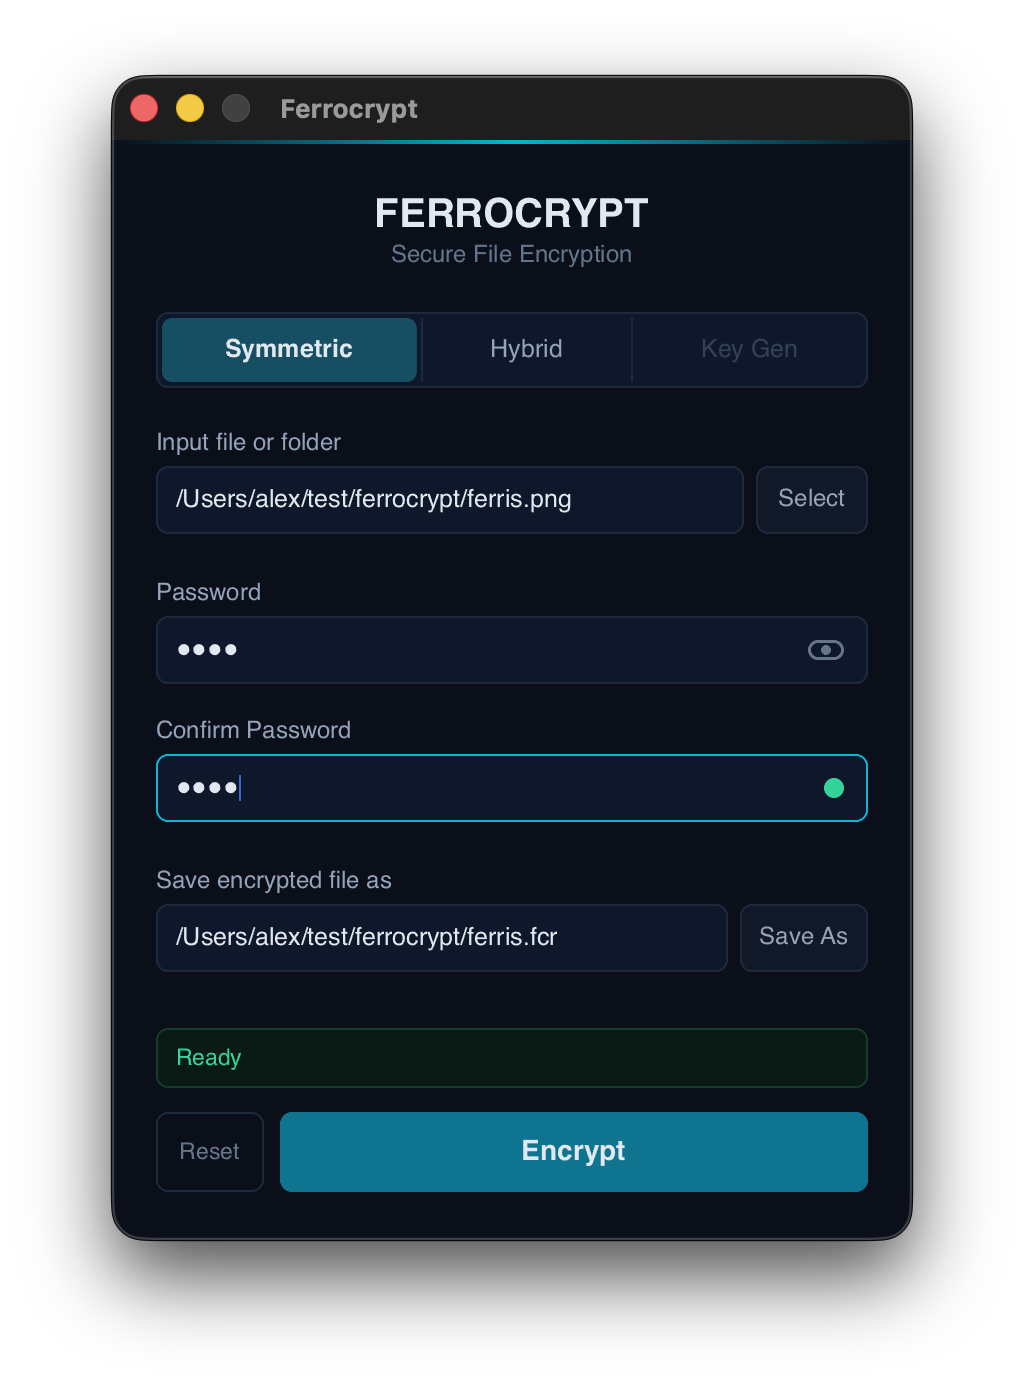
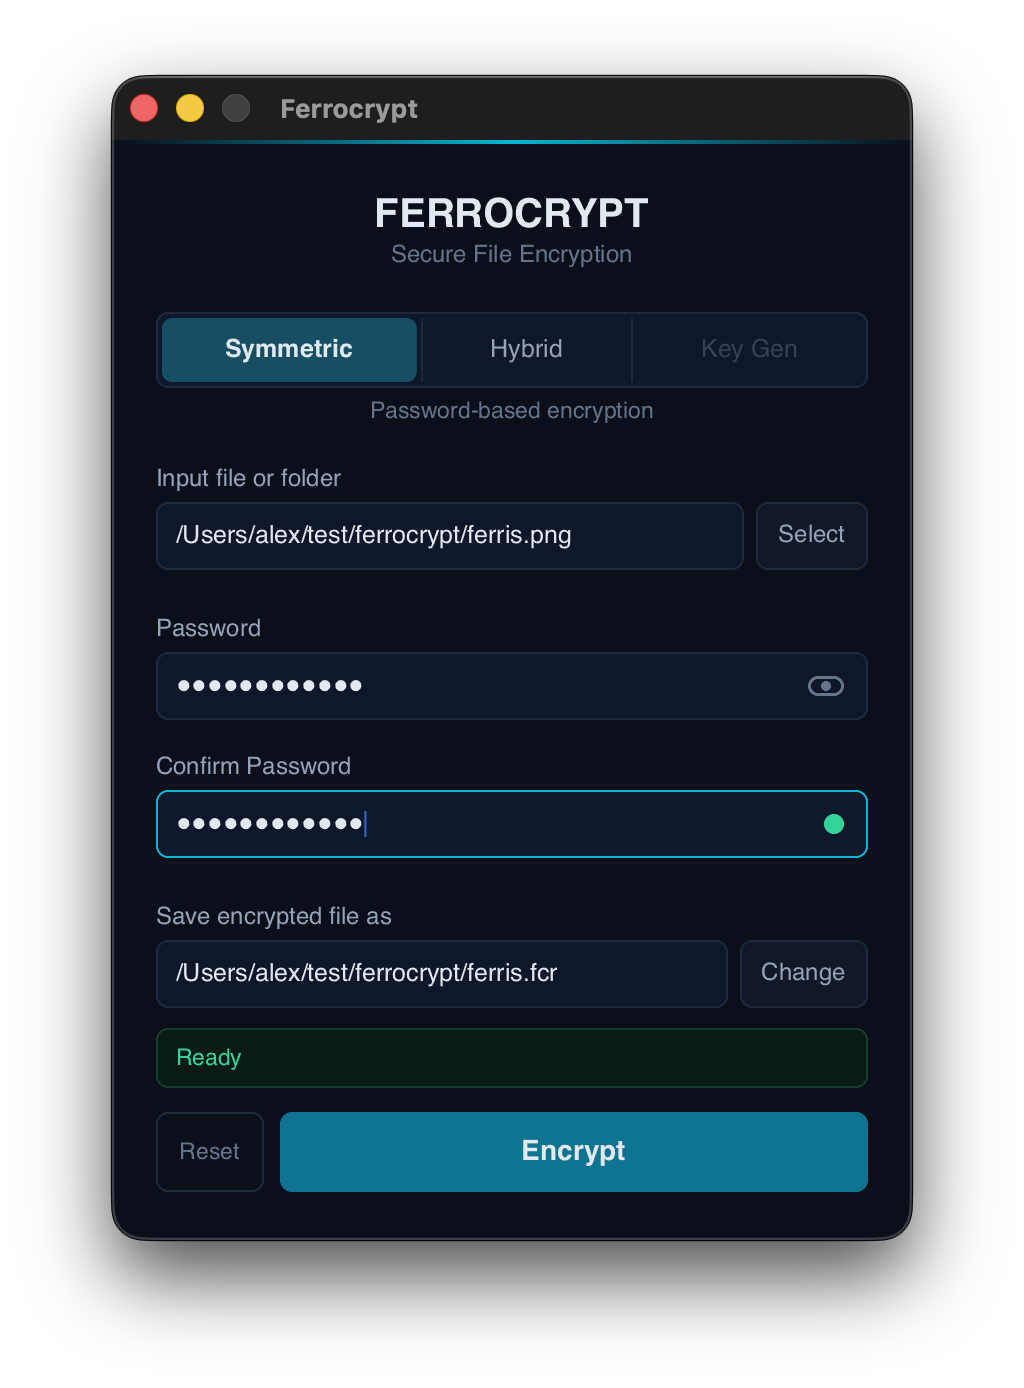
change button label and elide some notifications

diff --git a/ferrocrypt-desktop/src/main.rs b/ferrocrypt-desktop/src/main.rs
@@ -10,8 +10,7 @@ use ferrocrypt::{
 };
 use std::path::{Path, PathBuf};
 
-const ELIDE_INPUT: usize = 42;
-const ELIDE_OUTPUT: usize = ELIDE_INPUT - 1;
+const ELIDE: usize = 42;
 const RSA_KEY_BITS: u32 = 4096;
 
 // ---------------------------------------------------------------------------
@@ -95,7 +94,7 @@ fn main() {
             };
             let Some(app) = weak.upgrade() else { return };
             let key_path = path_to_string(&path);
-            app.set_keypath_display(elide_left(&key_path, ELIDE_INPUT).into());
+            app.set_keypath_display(elide_left(&key_path, ELIDE).into());
             app.set_keypath(key_path.into());
             check_conflicts(&app);
         }
@@ -243,7 +242,7 @@ fn apply_input_path(weak: &slint::Weak<AppWindow>, path: PathBuf) {
     let is_decrypt = matches!(detected_mode, Some(1) | Some(3));
 
     let Some(app) = weak.upgrade() else { return };
-    app.set_inpath_display(elide_left(&selected, ELIDE_INPUT).into());
+    app.set_inpath_display(elide_left(&selected, ELIDE).into());
     app.set_inpath(selected.clone().into());
     if let Some(m) = detected_mode {
         app.set_mode(m);
@@ -261,7 +260,7 @@ fn apply_input_path(weak: &slint::Weak<AppWindow>, path: PathBuf) {
 }
 
 fn set_outpath(app: &AppWindow, path: &str) {
-    app.set_outpath_display(elide_left(path, ELIDE_OUTPUT).into());
+    app.set_outpath_display(elide_left(path, ELIDE).into());
     app.set_outpath(path.into());
     check_conflicts(app);
 }
@@ -272,7 +271,7 @@ fn check_conflicts(app: &AppWindow) {
 
     let warning = match mode {
         0 | 2 if !outpath.is_empty() && Path::new(&outpath).exists() => {
-            format!("Already exists: {}", elide_left(&outpath, ELIDE_OUTPUT))
+            format!("Already exists: {}", elide_left(&outpath, ELIDE))
         }
         4 if !outpath.is_empty() => {
             let dir = Path::new(&outpath);
@@ -338,8 +337,13 @@ fn elide_result_path(msg: &str) -> String {
     for prefix in ["Encrypted to ", "Decrypted to "] {
         if let Some(rest) = msg.strip_prefix(prefix) {
             if let Some((path, duration)) = rest.rsplit_once(" in ") {
-                return format!("{prefix}{} in {duration}", elide_left(path, ELIDE_OUTPUT));
+                return format!("{prefix}{} in {duration}", elide_left(path, ELIDE - 5));
             }
+        }
+    }
+    for prefix in ["Output file already exists: ", "Output already exists: "] {
+        if let Some(path) = msg.strip_prefix(prefix) {
+            return format!("{prefix}{}", elide_left(path, ELIDE - 5));
         }
     }
     msg.to_string()
